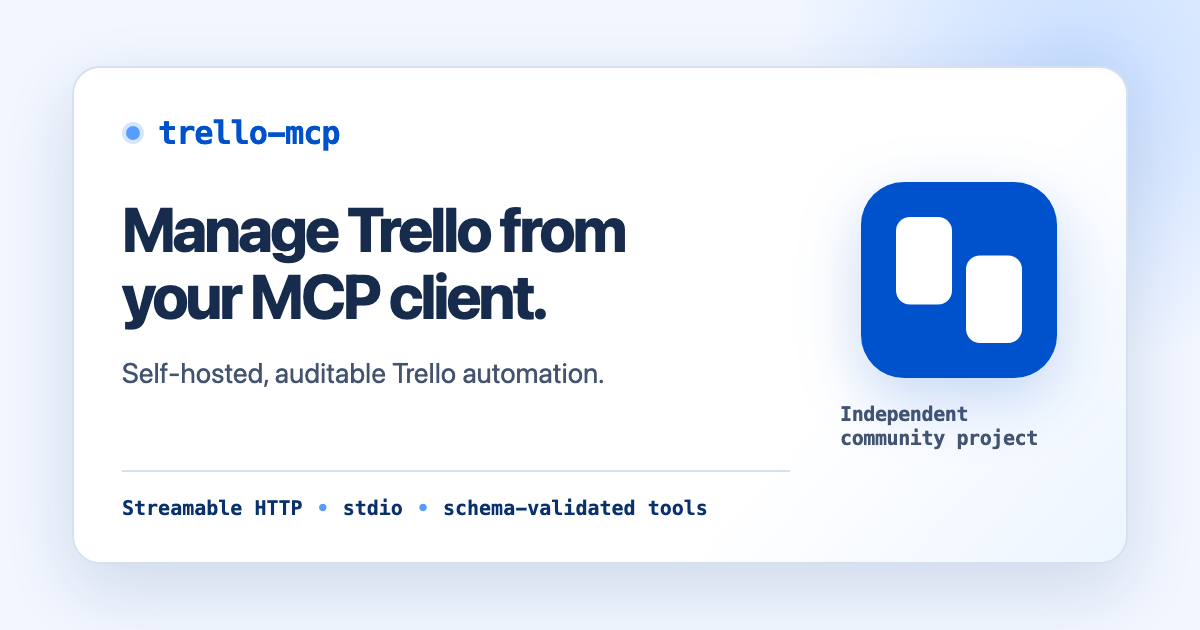
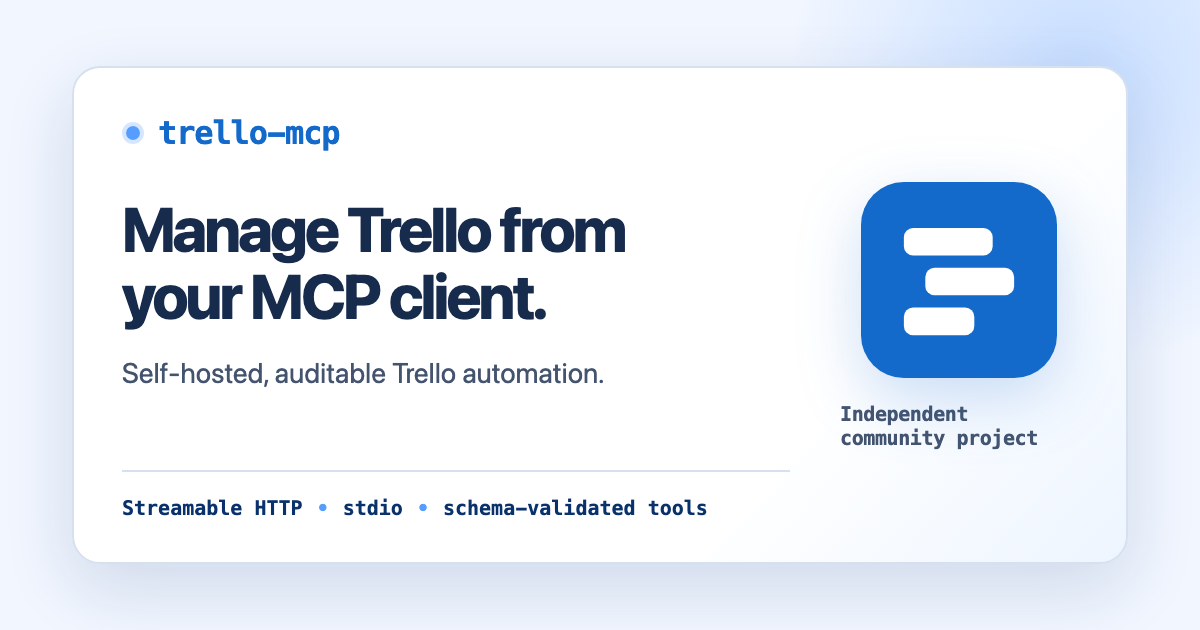
Finalize website launch readiness

Changed region(s): [[0.74, 0.3317, 0.8633, 0.5429]]

diff --git a/website/tests/site.spec.ts b/website/tests/site.spec.ts
@@ -679,7 +679,7 @@ test("README port publishing and OCI metadata stay on the documented safe defaul
     readme.match(/docker run --rm -p 127\.0\.0\.1:3000:3000/g),
   ).toHaveLength(2);
   expect(releaseWorkflow).toContain(
-    "org.opencontainers.image.url=https://trello-mcp.com",
+    `org.opencontainers.image.url=\${{ github.server_url }}/\${{ github.repository }}`,
   );
   expect(releaseWorkflow).not.toContain("trello-mcp.antoinemenard.com");
 });
@@ -1071,7 +1071,7 @@ test("homepage uses descriptive SEO and complete social metadata", async ({
   expect(socialSource).toContain("Self-hosted, auditable Trello automation.");
   expect(socialSource).toContain("Independent community project");
   expect(socialSource).not.toContain("trello-mcp.com");
-  expect(socialSource).toContain("--og-accent: #0052cc;");
+  expect(socialSource).toContain("--og-accent: #146acb;");
   expect(socialSource).toContain('<svg viewBox="0 0 64 64"');
   expect(socialSource).not.toContain("<img");
 
@@ -2301,9 +2301,12 @@ test("site marks, reference hero styling, and theme palette load in both themes"
   await expect(heroMark).toBeVisible();
   await expect(heroMark).toHaveAttribute(
     "src",
-    "/favicon.svg?v=full-bleed-split-card",
+    "/favicon.svg?v=staggered-cards",
   );
-  await expect(heroMark).toHaveAttribute("alt", "trello-mcp split-card mark");
+  await expect(heroMark).toHaveAttribute(
+    "alt",
+    "trello-mcp staggered-card mark",
+  );
   await expect(heroMark).toHaveAttribute("width", "400");
   await expect(heroMark).toHaveAttribute("height", "400");
   const [heroMarkBox, heroTitleBox] = await Promise.all([
@@ -2357,7 +2360,7 @@ test("site marks, reference hero styling, and theme palette load in both themes"
   const favicon = page.locator('link[rel="shortcut icon"]');
   await expect(favicon).toHaveAttribute(
     "href",
-    "/favicon.svg?v=full-bleed-split-card",
+    "/favicon.svg?v=staggered-cards",
   );
   const faviconHref = await favicon.getAttribute("href");
   const faviconResponse = await request.get(faviconHref ?? "", {
@@ -2365,25 +2368,22 @@ test("site marks, reference hero styling, and theme palette load in both themes"
   });
   expect(faviconResponse.status(), "Favicon must resolve").toBe(200);
   const faviconSource = (await faviconResponse.text()).toLowerCase();
-  expect(faviconSource).toContain("trello-mcp split-card mark");
-  expect(faviconSource).toContain("#0052cc");
+  expect(faviconSource).toContain("trello-mcp staggered-card mark");
+  expect(faviconSource).toContain("#146acb");
   expect(faviconSource).not.toContain("lineargradient");
-  expect(faviconSource.match(/<rect\b/g)).toHaveLength(3);
-  expect(faviconSource.match(/fill="#fff"/g)).toHaveLength(2);
+  expect(faviconSource.match(/<rect\b/g)).toHaveLength(4);
+  expect(faviconSource.match(/fill="#fff"/g)).toHaveLength(3);
   expect(faviconSource).toContain(
-    '<rect width="64" height="64" rx="14" fill="#0052cc"',
+    '<rect width="64" height="64" rx="14" fill="#146acb"',
   );
-  expect(faviconSource).toContain(
-    'x="11.43" y="11.43" width="18.29" height="28.57" rx="4.57"',
-  );
-  expect(faviconSource).toContain(
-    'x="34.29" y="24" width="18.29" height="28.57" rx="4.57"',
-  );
+  expect(faviconSource).toContain('x="14" y="15" width="29" height="9" rx="3"');
+  expect(faviconSource).toContain('x="21" y="28" width="29" height="9" rx="3"');
+  expect(faviconSource).toContain('x="14" y="41" width="23" height="9" rx="3"');
   expect(faviconSource).not.toContain("<path");
   expect(faviconSource).not.toContain("<circle");
 
   for (const [theme, expectedAccent] of [
-    ["light", "rgb(0, 82, 204)"],
+    ["light", "rgb(20, 106, 203)"],
     ["dark", "rgb(87, 157, 255)"],
   ] as const) {
     await test.step(theme, async () => {

diff --git a/website/og-image.html b/website/og-image.html
@@ -16,12 +16,12 @@
         --og-panel: #ffffff;
         --og-panel-tint: #edf5ff;
         --og-border: #d6e0ee;
-        --og-accent: #0052cc;
+        --og-accent: #146acb;
         --og-accent-bright: #579dff;
         --og-title: #172b4d;
         --og-muted: #44546f;
         --og-proof: #09326c;
-        --og-mark: #0052cc;
+        --og-mark: #146acb;
         --og-mark-detail: #ffffff;
         --og-shadow: rgb(9 50 108 / 14%);
       }
@@ -165,7 +165,7 @@
         width: 196px;
         height: 196px;
         place-items: center;
-        filter: drop-shadow(0 20px 32px rgb(0 82 204 / 22%));
+        filter: drop-shadow(0 20px 32px rgb(20 106 203 / 22%));
       }
 
       .mark svg {
@@ -212,19 +212,27 @@
             <svg viewBox="0 0 64 64" role="presentation">
               <rect width="64" height="64" rx="14" fill="var(--og-mark)" />
               <rect
-                x="11.43"
-                y="11.43"
-                width="18.29"
-                height="28.57"
-                rx="4.57"
+                x="14"
+                y="15"
+                width="29"
+                height="9"
+                rx="3"
                 fill="var(--og-mark-detail)"
               />
               <rect
-                x="34.29"
-                y="24"
-                width="18.29"
-                height="28.57"
-                rx="4.57"
+                x="21"
+                y="28"
+                width="29"
+                height="9"
+                rx="3"
+                fill="var(--og-mark-detail)"
+              />
+              <rect
+                x="14"
+                y="41"
+                width="23"
+                height="9"
+                rx="3"
                 fill="var(--og-mark-detail)"
               />
             </svg>

diff --git a/website/tests/visual.spec.ts b/website/tests/visual.spec.ts
@@ -32,11 +32,6 @@ const viewports = [
 ] as const;
 
 test.describe("responsive visual QA matrix", () => {
-  test.skip(
-    process.env.VISUAL_QA !== "1",
-    "Run with `corepack pnpm site:visual`.",
-  );
-
   for (const viewport of viewports) {
     for (const theme of ["light", "dark"] as const) {
       for (const route of routes) {
@@ -91,11 +86,6 @@ test.describe("responsive visual QA matrix", () => {
 });
 
 test.describe("footer visual QA", () => {
-  test.skip(
-    process.env.VISUAL_QA !== "1",
-    "Run with `corepack pnpm site:visual`.",
-  );
-
   for (const viewport of [viewports[0], viewports[4]] as const) {
     for (const theme of ["light", "dark"] as const) {
       test(`footer · ${theme} · ${viewport.name}`, async ({

diff --git a/website/playwright.config.ts b/website/playwright.config.ts
@@ -9,10 +9,13 @@ const baseURL = (process.env.PLAYWRIGHT_BASE_URL ?? localBaseUrl).replace(
   "",
 );
 const repositoryRoot = fileURLToPath(new URL("..", import.meta.url));
+const visualQa =
+  process.env.VISUAL_QA === "1" ||
+  process.argv.some((argument) => argument.endsWith("visual.spec.ts"));
 
 export default defineConfig({
   testDir: "./tests",
-  testIgnore: process.env.VISUAL_QA === "1" ? [] : [/visual\.spec\.ts$/],
+  testIgnore: visualQa ? [] : [/visual\.spec\.ts$/],
   outputDir: "./test-results",
   fullyParallel: true,
   forbidOnly: Boolean(process.env.CI),

diff --git a/website/src/styles/custom.css b/website/src/styles/custom.css
@@ -1,5 +1,5 @@
 :root {
-  --trello-mcp-blue: #0052cc;
+  --trello-mcp-blue: #146acb;
   --trello-mcp-button-hover-ring: #579dff;
   --sl-color-accent-low: #082145;
   --sl-color-accent: #579dff;
@@ -13,6 +13,10 @@
   --sl-color-gray-6: #e2eaf5;
   --sl-color-gray-7: #f1f6ff;
   --sl-color-black: #f8fbff;
+}
+
+:root[data-theme="light"] .sl-markdown-content a code {
+  background-color: var(--sl-color-accent-low);
 }
 
 html {

diff --git a/README.md b/README.md
@@ -127,7 +127,7 @@ The default `docker-compose.yml` uses:
 ghcr.io/enthouan/trello-mcp:latest
 ```
 
-Docker Compose values such as image tag, host bind IP, host port, and network name can be overridden with environment variables or the `.env` file. The compose files document their defaults at the top; for example, `TRELLO_MCP_IMAGE_TAG` defaults to the `latest` tag in `docker-compose.yml` (`latest` follows the `main` branch, and release tags such as `0.4` and `0.4.1` are available for versioned deployments), `TRELLO_MCP_HOST_BIND_IP` defaults to `127.0.0.1` for local-only access, `TRELLO_MCP_HOST_PORT` defaults to `3000` and maps that host port to the container's fixed internal `3000` listener, while `TRELLO_MCP_NETWORK` defaults to `trello-mcp_network`. Set `TRELLO_MCP_HOST_BIND_IP=0.0.0.0` only when you intentionally want Docker to publish the service on all host interfaces, such as for LAN access.
+Docker Compose values such as image tag, host bind IP, host port, and network name can be overridden with environment variables or the `.env` file. The compose files document their defaults at the top; for example, `TRELLO_MCP_IMAGE_TAG` defaults to the `latest` tag in `docker-compose.yml` (`latest` follows the `main` branch, and release tags such as `X.Y` and `X.Y.Z` are available for versioned deployments), `TRELLO_MCP_HOST_BIND_IP` defaults to `127.0.0.1` for local-only access, `TRELLO_MCP_HOST_PORT` defaults to `3000` and maps that host port to the container's fixed internal `3000` listener, while `TRELLO_MCP_NETWORK` defaults to `trello-mcp_network`. Set `TRELLO_MCP_HOST_BIND_IP=0.0.0.0` only when you intentionally want Docker to publish the service on all host interfaces, such as for LAN access.
 
 Set `MCP_AUTH_TOKEN` to require `Authorization: Bearer <token>` on HTTP MCP requests to `/mcp`. Leave it unset for the default unauthenticated local behavior. Health and readiness endpoints remain unauthenticated for container and reverse-proxy checks.
 
@@ -139,8 +139,8 @@ image tags use these conventions:
 | Tag | Use case |
 | --- | --- |
 | `latest` | Follows the current `main` branch build. Use it when you intentionally want the newest main-branch image. |
-| `X.Y` | Follows the newest patch release in a minor line, such as `0.4` moving to the image built from the latest `v0.4.Z` tag. |
-| `X.Y.Z` | Pins to one exact release, such as `0.4.1`. Use this for the most reproducible deployments. |
+| `X.Y` | Follows the newest patch release in a minor line, moving to the image built from the latest matching `vX.Y.Z` tag. |
+| `X.Y.Z` | Pins to one exact release. Use this for the most reproducible deployments. |
 | `sha-<commit>` | Pins to one exact commit image from the release workflow. Use this for debugging or audit trails. |
 
 You can also run the published image directly without Compose:

diff --git a/AGENTS.md b/AGENTS.md
@@ -267,6 +267,7 @@ If changing CI:
 
 - Avoid dependency churn.
 - Keep top-level dependency ranges pinned to exact versions for release reproducibility.
+- Before upgrading TypeScript to 7, confirm that the current `@astrojs/check` peer range includes it and run `corepack pnpm site:check`; `@astrojs/check@0.9.10` currently requires TypeScript 5 or 6.
 - If a dependency update is required, update and commit `pnpm-lock.yaml`.
 - Be extra cautious with `@modelcontextprotocol/sdk` and TypeScript updates because SDK declaration changes can affect transport and tool typing.
 
